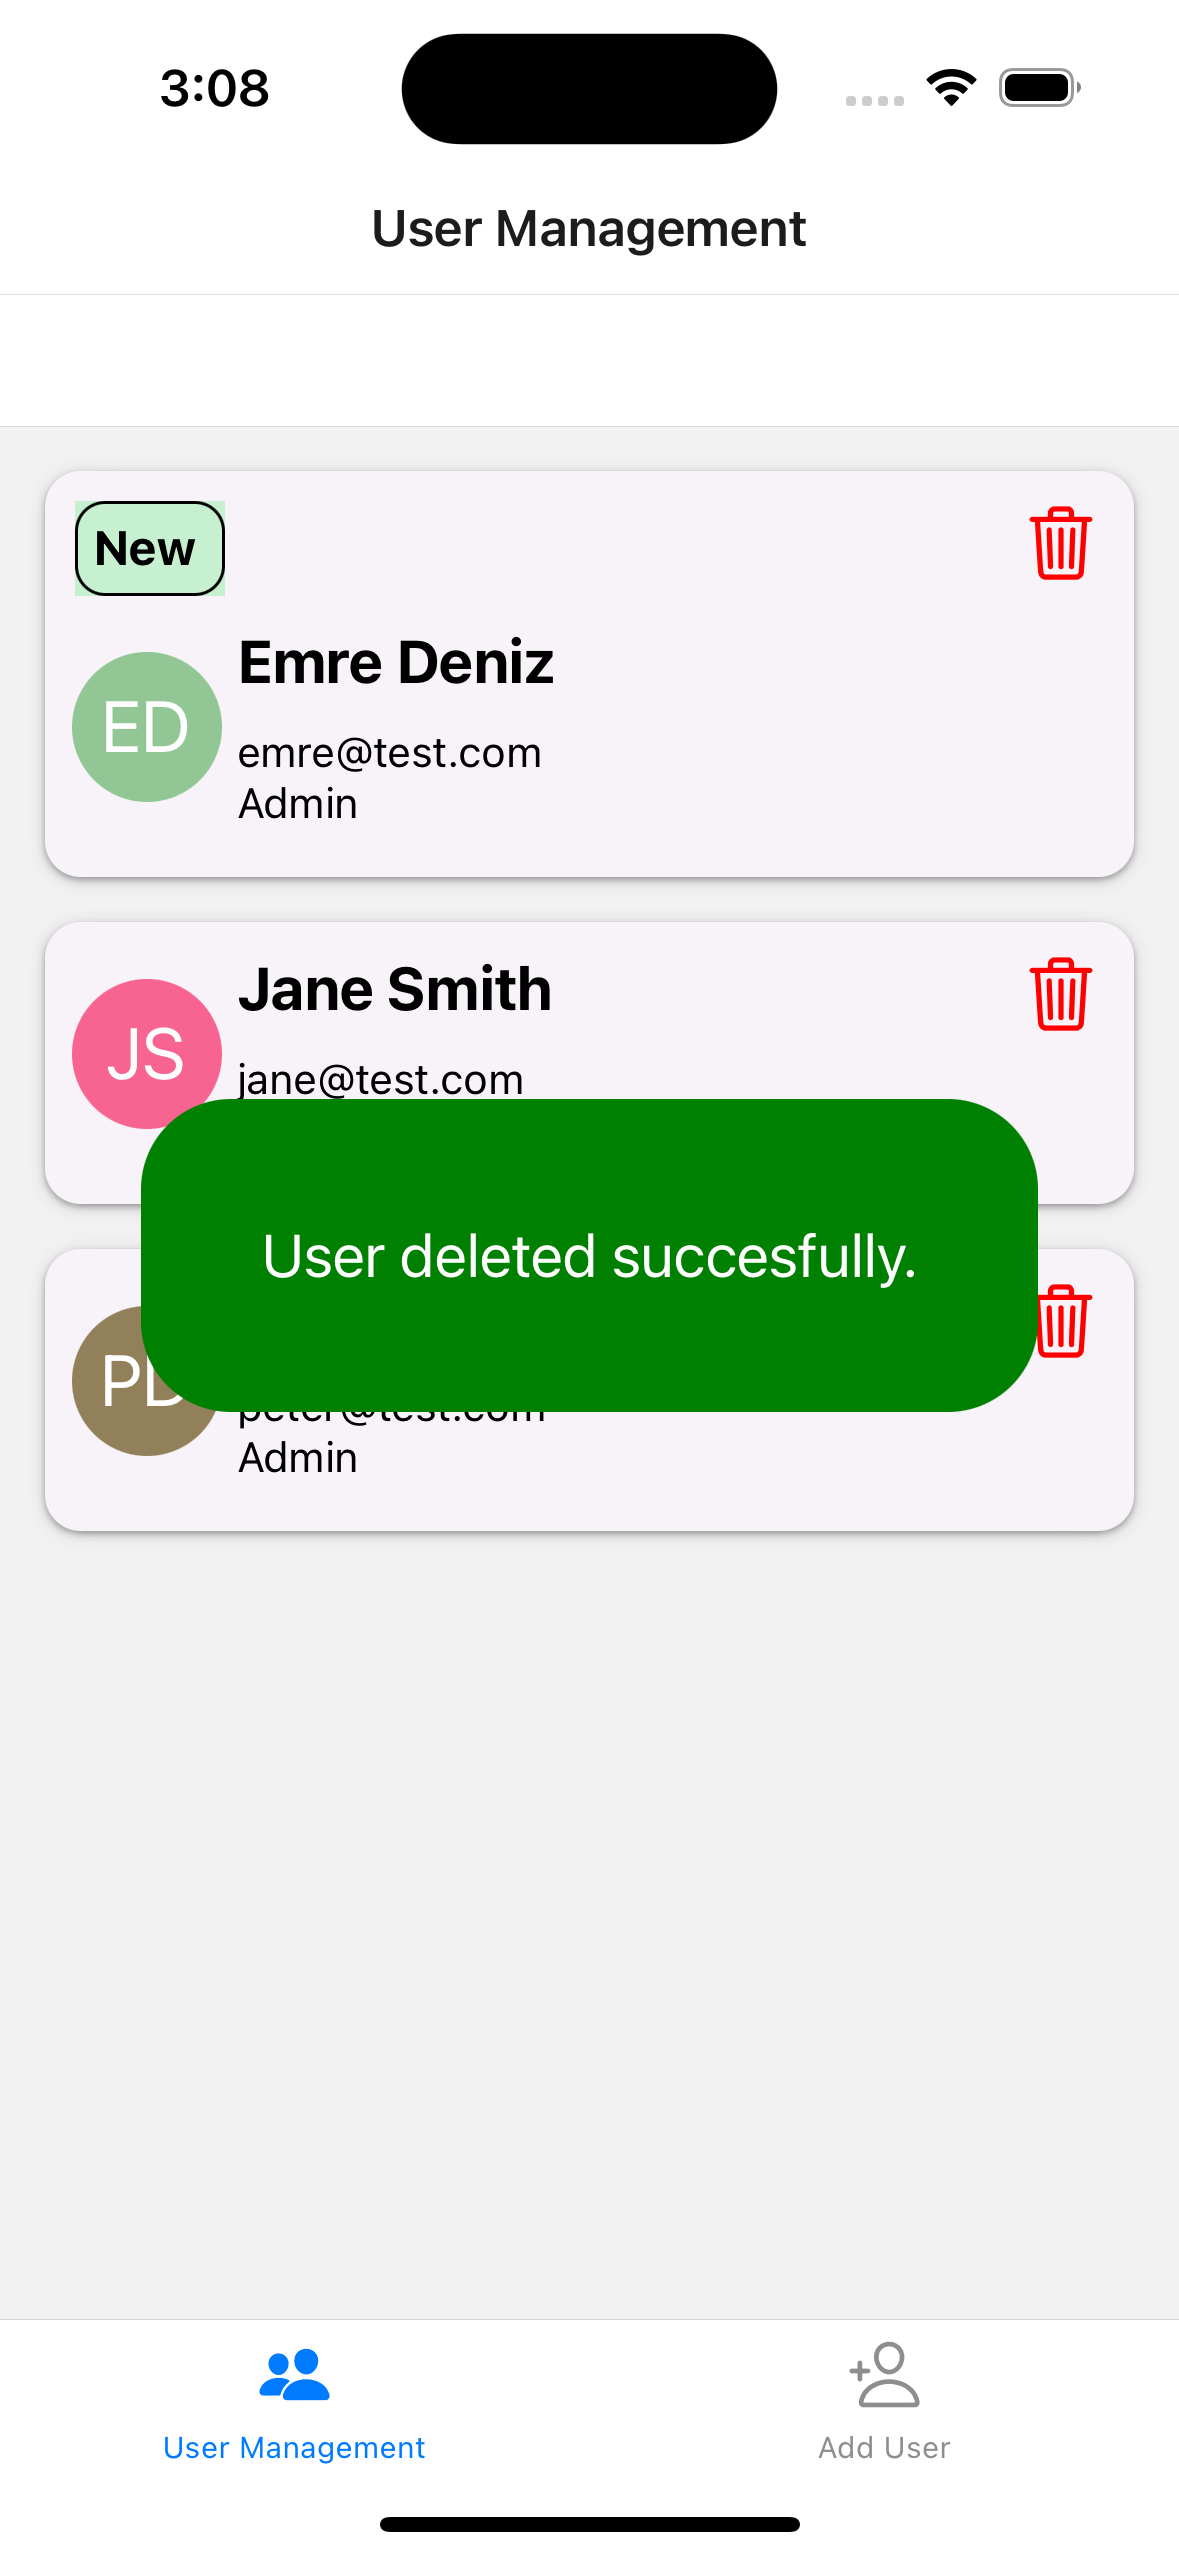
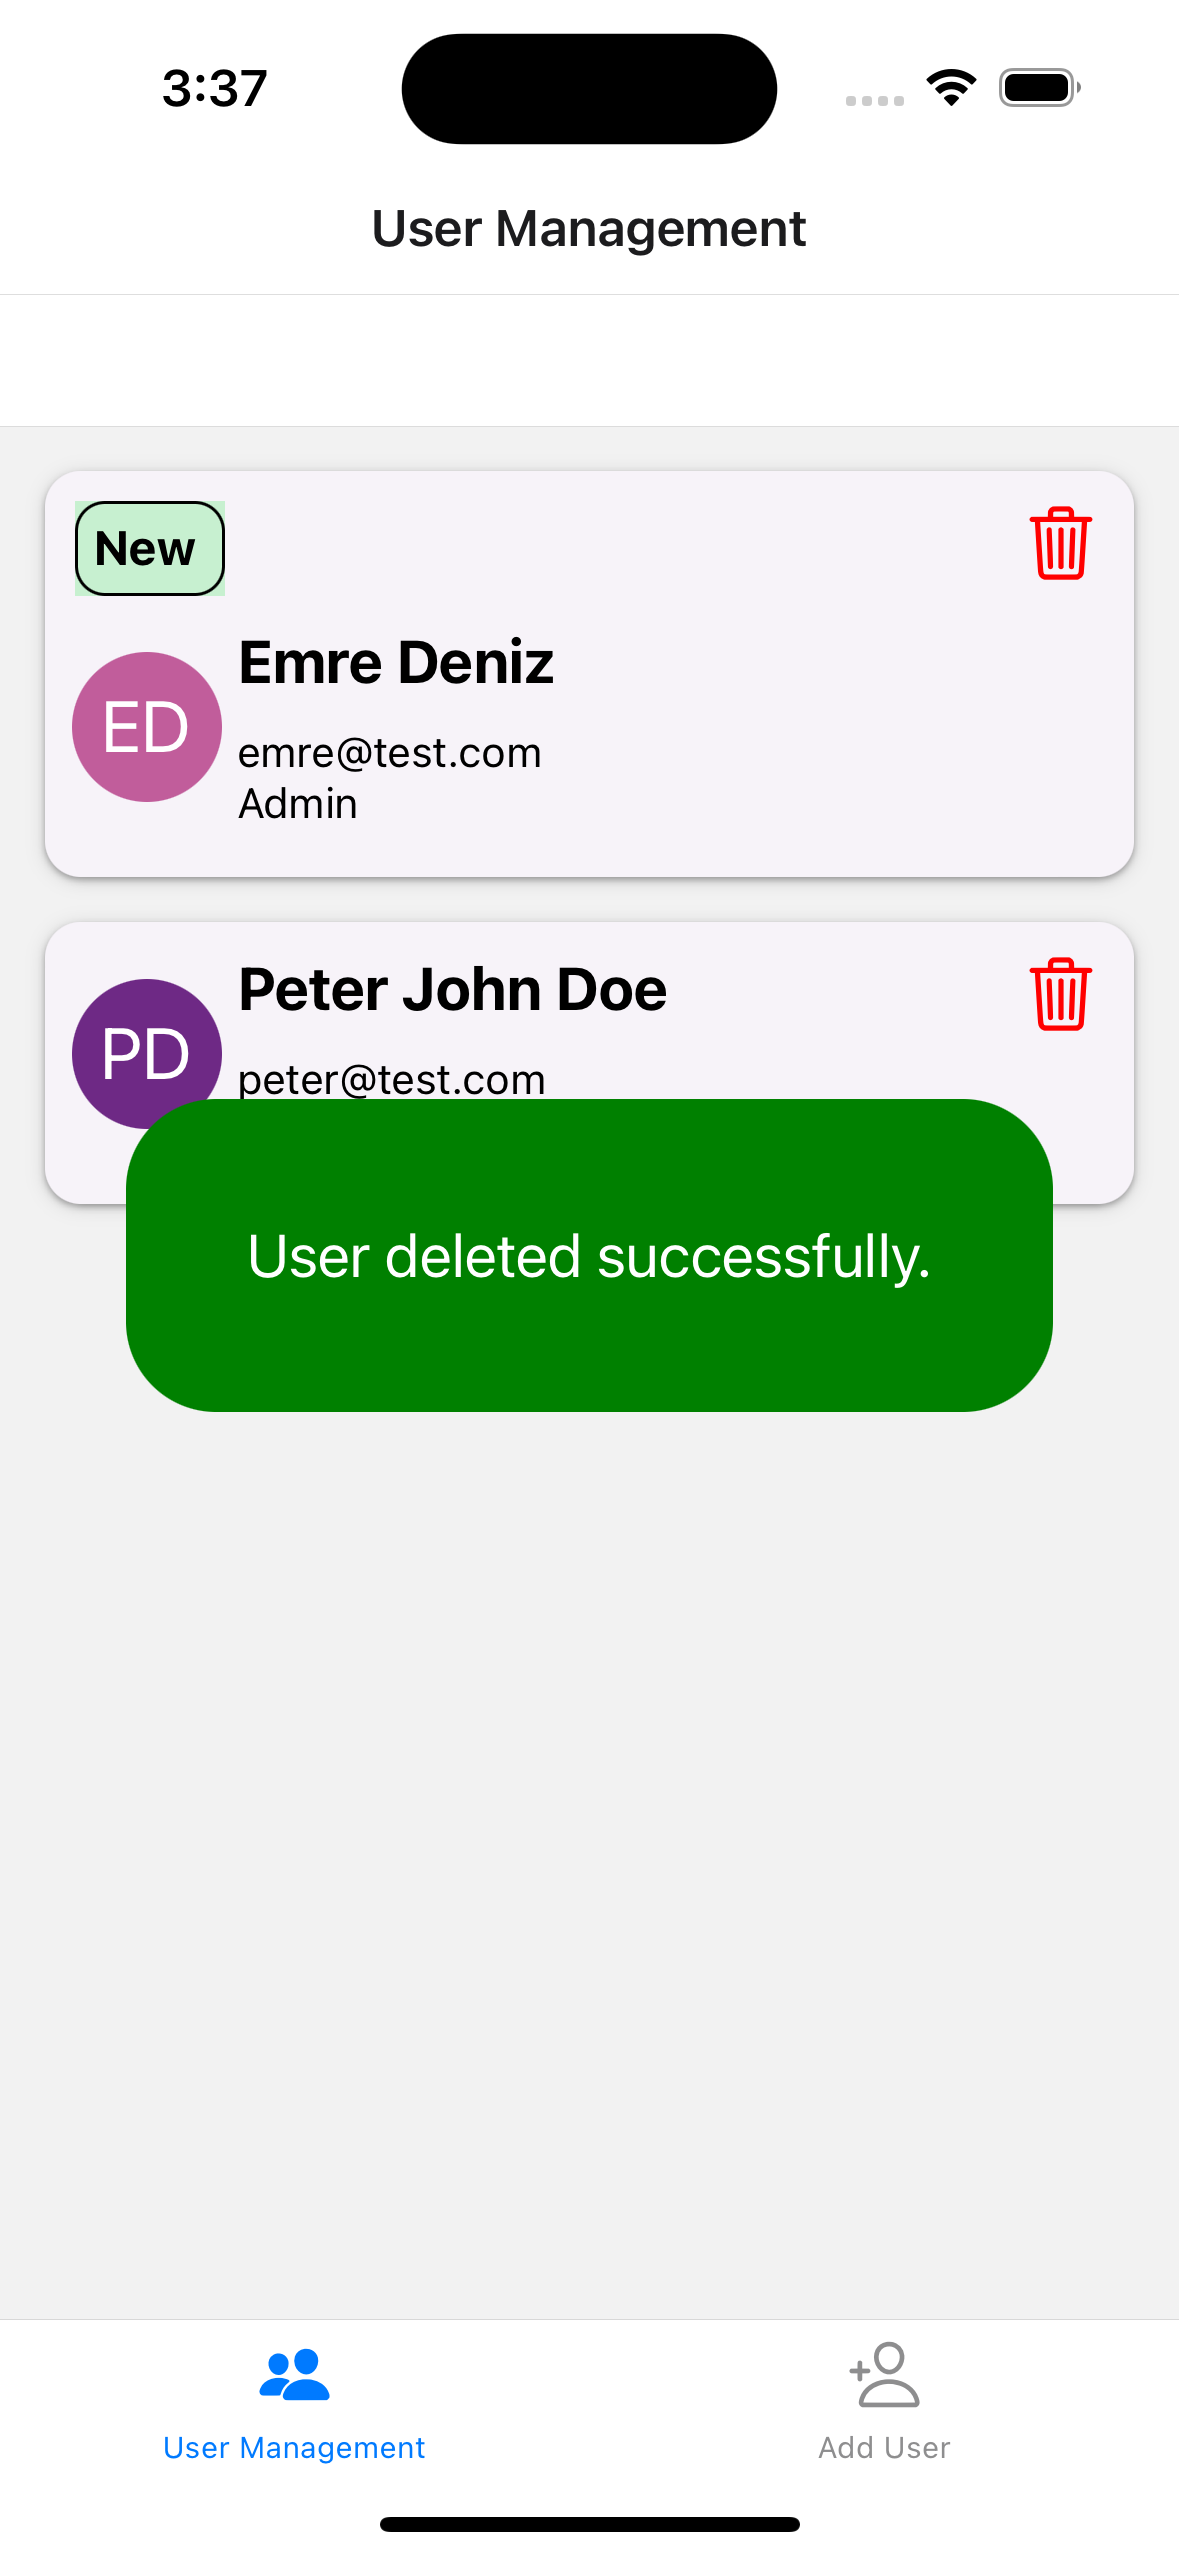
fix(readme): screenshots updated

diff --git a/screens/UserDetails.tsx b/screens/UserDetails.tsx
@@ -225,7 +225,7 @@ export default function UserDetailsScreen({ route }: UserDetailsProps) {
         >
           <View style={styles.modal}>
             <View style={styles.modalTextView}>
-              <Text style={styles.modalText}>User updated succesfully.</Text>
+              <Text style={styles.modalText}>User updated successfully.</Text>
             </View>
           </View>
         </Modal>

diff --git a/screens/UserList.tsx b/screens/UserList.tsx
@@ -116,7 +116,7 @@ export default function UserListScreen() {
       >
         <View style={styles.modal}>
           <View style={styles.modalTextView}>
-            <Text style={styles.modalText}>User deleted succesfully.</Text>
+            <Text style={styles.modalText}>User deleted successfully.</Text>
           </View>
         </View>
       </Modal>

diff --git a/screens/AddUser.tsx b/screens/AddUser.tsx
@@ -182,7 +182,7 @@ export default function AddUserScreen() {
       >
         <View style={styles.modal}>
           <View style={styles.modalTextView}>
-            <Text style={styles.modalText}>User added succesfully.</Text>
+            <Text style={styles.modalText}>User added successfully.</Text>
           </View>
         </View>
       </Modal>
